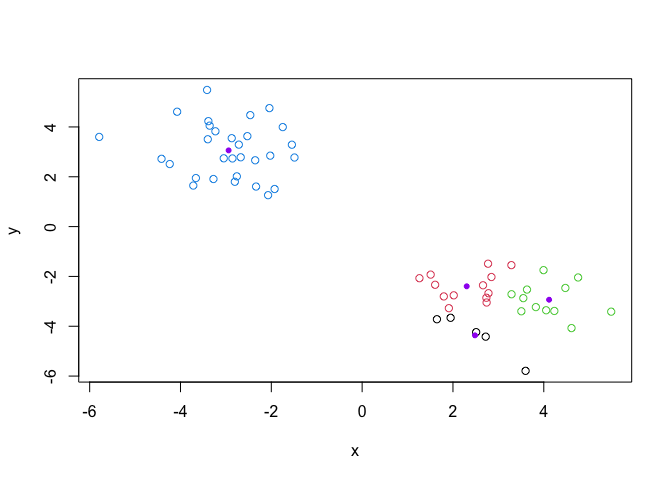
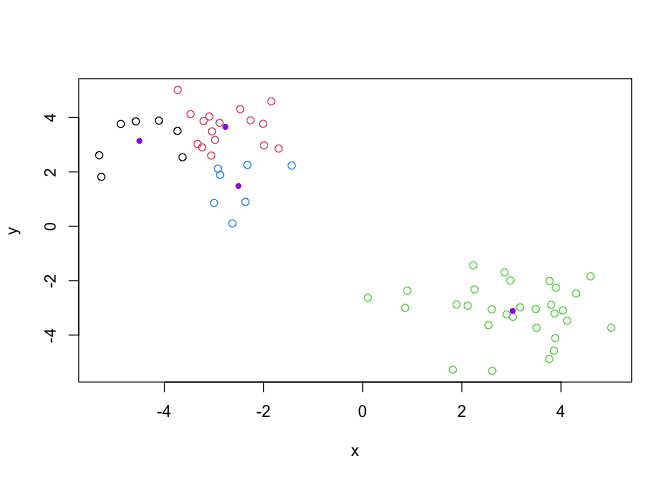
added c4 md

diff --git a/class06/class06.md b/class06/class06.md
@@ -96,7 +96,7 @@ The `sample()` function in R randomly selects items from a vector
 sample(1:10, size=4)
 ```
 
-    [1] 2 1 6 9
+    [1] 1 5 2 4
 
 > Q. Return 12 numbers picked randomly from the input 1:10
 
@@ -104,7 +104,7 @@ sample(1:10, size=4)
 sample(1:10, size=12, replace=TRUE)
 ```
 
-     [1]  2  4  6  1  1  1  2  9  7 10 10  5
+     [1] 10  7  4  2  8  6  8  7  7  6  6  6
 
 > Q: Write the code to generate a random 12 nucleotide long DNA
 > sequence?
@@ -114,7 +114,7 @@ bases <- c('A','C','G','T')
 sample(bases, size=12, replace=TRUE)
 ```
 
-     [1] "T" "G" "G" "T" "G" "C" "G" "T" "G" "T" "G" "A"
+     [1] "A" "C" "C" "A" "G" "T" "A" "G" "C" "C" "C" "A"
 
 > Q. Write a first version function called `generate_dna()` that
 > generates a user specified length `n` random DNA sequence?
@@ -130,7 +130,7 @@ generate_dna <- function(n=4){
 generate_dna(10)
 ```
 
-     [1] "T" "A" "T" "T" "G" "A" "A" "C" "A" "A"
+     [1] "G" "G" "G" "T" "T" "G" "G" "A" "A" "G"
 
 > Q. Modify your function to return a FASTA like sequence so rather than
 > \[1\] “G” “A” “T” “G” “C” “C” we want “GATGCC”
@@ -148,7 +148,7 @@ generate_dna <- function(n=4){
 generate_dna(7)
 ```
 
-    [1] "CTAATCA"
+    [1] "AGCTAAT"
 
 > Q. Give the user an option to return FASTA format ouput sequence or
 > standard multi-element vector format?
@@ -174,7 +174,7 @@ generate_dna(5)
 
     Hello...
 
-    [1] "ATGCT"
+    [1] "CACTG"
 
 ``` r
 generate_dna(5, fasta = FALSE)
@@ -182,7 +182,7 @@ generate_dna(5, fasta = FALSE)
 
     ... is it me you are looking for...
 
-    [1] "A" "T" "A" "G" "A"
+    [1] "C" "C" "C" "C" "G"
 
 ## A new cool function
 
@@ -209,43 +209,43 @@ generate_protein <- function(n=4, fasta=TRUE){
 generate_protein(6)
 ```
 
-    [1] "RWDDHE"
+    [1] "TMGHQM"
 
 ``` r
 generate_protein(7)
 ```
 
-    [1] "GLVADRY"
+    [1] "WKMRMTT"
 
 ``` r
 generate_protein(8)
 ```
 
-    [1] "YAQDDAED"
+    [1] "LMCSGKLW"
 
 ``` r
 generate_protein(9)
 ```
 
-    [1] "PNWMEHFWQ"
+    [1] "QLKDFENFM"
 
 ``` r
 generate_protein(10)
 ```
 
-    [1] "HAPNMVCVME"
+    [1] "EQGIWEDYKP"
 
 ``` r
 generate_protein(11)
 ```
 
-    [1] "VAEVFDWVPYH"
+    [1] "GWRYTRGYCWP"
 
 ``` r
 generate_protein(12)
 ```
 
-    [1] "AAVYKRRLLVGM"
+    [1] "EHMEIIMYCNPI"
 
 Or we could do a `for()` loop:
 
@@ -257,19 +257,19 @@ for(i in 6:12){
 ```
 
     >6
-    FDAVHN 
+    WMVWDF 
     >7
-    PEDPQPD 
+    DKTDTPH 
     >8
-    YKNMSDIF 
+    KGMRTFYG 
     >9
-    YNSWAVYIR 
+    YNMVFDKES 
     >10
-    SFMRYLHSLW 
+    CVPIEPEMRE 
     >11
-    GNQTTQCVYYL 
+    RFIDYHKPNLI 
     >12
-    NALYQSMDYPRK 
+    EWLKSQSWPRYL 
 
 The protein sequences of 8-12 are unique in nature as they do not appear
 in the NR database in NCBI.

diff --git a/class07/class07.md b/class07/class07.md
@@ -63,8 +63,8 @@ km$centers
 ```
 
               x         y
-    1  3.058765 -2.940528
-    2 -2.940528  3.058765
+    1  3.025904 -3.113062
+    2 -3.113062  3.025904
 
 > Q. What component of the results object details the cluster membership
 > vectors (i.e. our main result of which points lie in which cluster)?
@@ -103,13 +103,13 @@ The metric
 km$tot.withinss
 ```
 
-    [1] 119.4063
+    [1] 134.3835
 
 ``` r
 k4$tot.withinss
 ```
 
-    [1] 82.9043
+    [1] 93.26714
 
 > Q. Let’s try different number of K (centers) from 1 to 30 and see what
 > the best result is?
@@ -122,11 +122,11 @@ for (i in 1:30) {
 ans
 ```
 
-     [1] 1199.151785  119.406333   94.549097   82.904303   58.047067   74.129977
-     [7]   48.305639   67.967126   35.561965   32.532429   27.868592   21.953151
-    [13]   18.536454   15.527463   17.282386   12.347782   10.740611   12.202144
-    [19]   10.236811    8.701057    6.249720    6.436888    6.422497    4.505500
-    [25]    5.746068    6.472421    3.638355    3.611883    4.870618    3.769200
+     [1] 1264.990792  134.383540  107.929935   93.267137   86.722690   56.234982
+     [7]   54.193351   40.690181   33.723648   28.481507   23.360955   21.225262
+    [13]   17.518504   15.572963   13.172770   14.713600   13.384581   10.056362
+    [19]    8.634377    8.345924   10.095697    6.609812    6.054209    6.289572
+    [25]    6.899535    4.853300    4.832203    4.494055    4.314367    3.971651
 
 ``` r
 plot(ans, typ="o")

diff --git a/Class4/Class4.md b/Class4/Class4.md
@@ -1,0 +1,18 @@
+# Class4
+Nathan Joseph (PID: A17668656)
+
+# Introduction to R
+
+``` r
+x <- 1:50
+plot(x)
+```
+
+![](Class4_files/figure-commonmark/unnamed-chunk-1-1.png)
+
+``` r
+plot(x, sin(x), typ='l', col = 'red', lwd = 3, 
+     xlab="Is it lunch time yet?")
+```
+
+![](Class4_files/figure-commonmark/unnamed-chunk-1-2.png)
